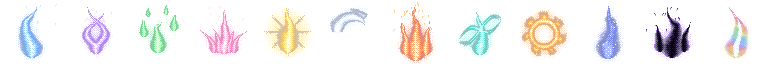
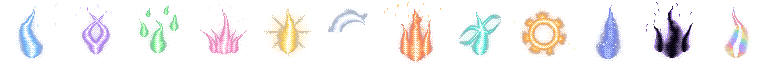
사역마 시안: 정령불 일렁임 8칸 애니메이션 + 맵에서 따라다니는 움직이는 시안
Claude-Session: https://claude.ai/code/session_01HhJ2NoNCjk5kaA3GWL7UDs

diff --git a/tools/familiar_mock/follow_gif.js b/tools/familiar_mock/follow_gif.js
@@ -1,0 +1,30 @@
+// 움직이는 시안: node follow_gif.js <포트> <저장 폴더>  → 정령불이 따라다니는 장면을 연속으로 찍어 칸 파일(gN_k.png)로 저장
+const { chromium } = require('/opt/node-tools/node_modules/playwright');
+const fs = require('fs'), path = require('path');
+const PORT = process.argv[2] || 8791, OUT = process.argv[3] || '.';
+const spec = fs.readFileSync(path.join(__dirname, '../../tests/ui.spec.js'), 'utf8');
+const seed = eval('(' + spec.match(/const seed = (\{.*\});\n/)[1] + ')');
+const INJ = fs.readFileSync(path.join(__dirname, 'follow_inject.js'), 'utf8');
+const CLIPS = [
+  { n: 'g1', i: 0, col: '#5A8CFF', script: [[0, 'walk', [3, 2]], [26, 'walk', [-2, 1]], [52, 'say', '이 근처.... 마력이 고여 있어요.......']], len: 80 },
+  { n: 'g2', i: 9, col: '#6A7CFF', night: 1, script: [[4, 'say', '별이 많은 밤엔.... 나도 조금 더 밝아져요.......']], len: 40 },
+  { n: 'g3', i: 10, col: '#8A5AE0', script: [[0, 'walk', [-3, 2]], [30, 'say', '....조용히. 누가 지켜보고 있어요.......']], len: 56 },
+];
+(async () => {
+  const b = await chromium.launch({ executablePath: '/opt/pw-browsers/chromium' });
+  for (const c of CLIPS){
+    const p = await b.newPage({ viewport: { width: 390, height: 844 } }); p.on('pageerror', e => console.log('err', e.message));
+    await p.addInitScript(sd => { window.__seed = sd; window.__uid = 'me1'; }, seed);
+    await p.goto(`http://localhost:${PORT}/`); await p.waitForTimeout(3500);
+    for (let k = 0; k < 12; k++){ const bb = await p.$('#stnext'); if (!bb) break; await bb.click(); await p.waitForTimeout(100); }
+    await p.evaluate(c => { if (c.night) World.kNow = () => new Date(2026, 9, 30, 22, 10); World.zoomStep(-1); }, c);
+    await p.addScriptTag({ content: INJ }); await p.evaluate(c => { __wisp.i = c.i; __wisp.col = c.col; }, c); await p.waitForTimeout(1800);
+    for (let k = 0; k < c.len; k++){
+      for (const [at, kind, v] of c.script) if (at === k) await p.evaluate(([kind, v, col]) => { if (kind === 'walk'){ const m = World.myPos(); World.walkToTile(m.x + v[0], m.y + v[1]); } else __wisp.setSay(v, col); }, [kind, v, c.col]);
+      await p.screenshot({ path: path.join(OUT, `${c.n}_${String(k).padStart(3, '0')}.png`), clip: { x: 0, y: 190, width: 390, height: 330 } });
+      await p.waitForTimeout(40);
+    }
+    await p.close();
+  }
+  await b.close();
+})();

diff --git a/tools/familiar_mock/follow_inject.js b/tools/familiar_mock/follow_inject.js
@@ -1,6 +1,6 @@
 // 시안: 실제 맵 위에서 정령불 사역마가 플레이어 뒤를 따라다니는 모습 (world.js 의 World.__cam 손잡이가 필요해요)
 (function(){
-const SPR = new Image(); SPR.src = 'wisps3.png';
+const SPR = new Image(); SPR.src = 'wisps3_anim.png';   // 세로 = 정령 12종, 가로 = 일렁임 8칸
 const cv = document.getElementById('cv'), ov = document.createElement('canvas'), g = ov.getContext('2d');
 ov.style.cssText = 'position:fixed;pointer-events:none;z-index:5;image-rendering:pixelated'; document.body.appendChild(ov);
 const bub = document.createElement('div');
@@ -36,7 +36,7 @@ function frame(now){
   for (const p of W.sparks){ const a = 1 - (now - p.t) / p.life, dt = now - p.t, [px, py] = S(p.x + p.vx * dt, p.y + p.vy * dt); g.fillStyle = W.col; g.globalAlpha = a; g.fillRect(Math.round(px), Math.round(py), Math.max(1, Math.round(K)), Math.max(1, Math.round(K))); }
   g.globalAlpha = 1; g.globalCompositeOperation = 'source-over';
   // 정령불 본체 (64칸 → 세계 30픽셀, 살짝 일렁이게 세로로 늘었다 줄었다)
-  if (SPR.complete){ const sz = 34 * K, st = 1 + .05 * Math.sin(now / 160); g.drawImage(SPR, W.i * 64, 0, 64, 64, Math.round(sx - sz / 2), Math.round(sy - sz * .62 * st), Math.round(sz), Math.round(sz * st)); }
+  if (SPR.complete){ const sz = 34 * K, st = 1 + .05 * Math.sin(now / 160); const fi = Math.floor(now / 110) % 8; g.drawImage(SPR, fi * 64, W.i * 64, 64, 64, Math.round(sx - sz / 2), Math.round(sy - sz * .62 * st), Math.round(sz), Math.round(sz * st)); }
   if (W.say){ const s = cv.getBoundingClientRect().width / cv.width; bub.style.left = r.left + sx * s + 'px'; bub.style.top = r.top + (sy - 22 * K) * s + 'px'; }
 }
 requestAnimationFrame(frame);
